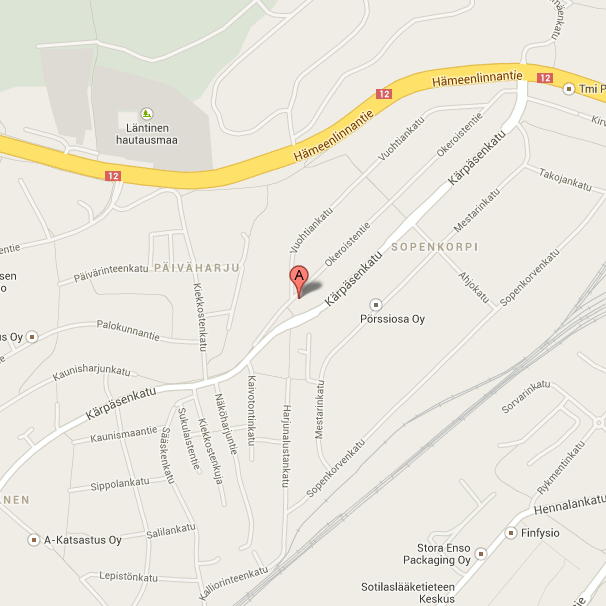
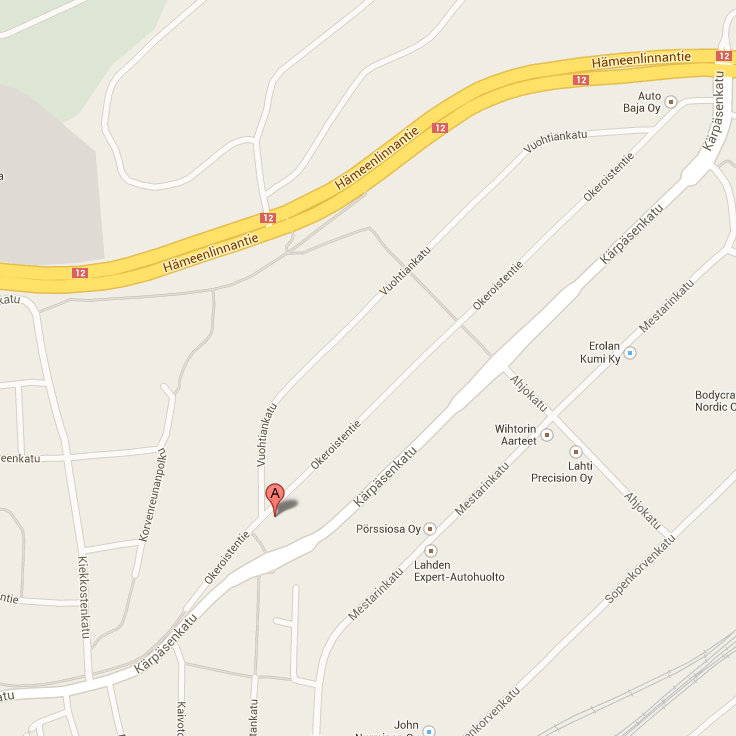
map update

diff --git a/index.html b/index.html
@@ -5,6 +5,7 @@
 	<head>
 		<!--Define utf-8 -->
 		<meta charset="utf-8">
+		<meta content='user-scalable=0' name='viewport' />
 		<!-- Seting up some meta data -->
 		<meta name="author" content="Simo Haakana">
 		<meta name="keywords" content="HSV, Harjunalustan Siniveljet, Lahti, Partio">
@@ -97,9 +98,9 @@
 			<h1>Ryhmät</h1>
 			<table>
 				<tr>
-					<td><img src="img/salppuri.png" class="map"></td>
-					<td><img src="img/riihela.png" class="map"></td>
-					<td><img src="img/harjunalusta.png" class="map"></td>
+					<td><div class="map" id="salppuri"><a href="http://goo.gl/maps/q6SP7">Iso Kartta</a></div></td>
+					<td><div class="map" id="riihela"><a href="http://goo.gl/maps/1cgnM">Iso Kartta</a></div></td>
+					<td><div class="map" id="harjunalusta"><a href="http://goo.gl/maps/gk5zT">Iso Kartta</a></div></td>
 				</tr>
 				<tr>
 					<td>Sudenpentu</td>

diff --git a/css/index.css b/css/index.css
@@ -33,3 +33,35 @@ div.salmela_cover{
 div.sail_cover2{
 	background-image: url('../img/purjehdus2.jpg');
 }
+.map{
+	border-radius: 100%;
+	width: 300px;
+	height: 300px;
+	transition:width 1.2s height 1.2s;
+	-webkit-transition:width 1.2s, height 1.2s, -webkit-transform 1.2s;
+}
+.map:hover{
+	height: 450px;
+	width: 450px;
+	color: blue;
+}
+div.map>a{
+	color: blue;
+	text-decoration: none;
+	opacity: 0.3;
+	transition:opacity 0.8s;
+	-webkit-transition:opacity 0.8s, -webkit-transform 0.8s;
+}
+div.map>a:hover{
+	opacity: 0.8;
+}
+#salppuri{
+	background-image: url('../img/salppuri2.png');
+	
+}
+#harjunalusta{
+	background-image: url('../img/harjunalusta2.png');
+}
+#riihela{
+	background-image: url('../img/riihela2.png')
+}

diff --git a/css/hsv.css b/css/hsv.css
@@ -190,6 +190,7 @@ img.hsv_logo:hover{
 .mfloat{
 	float: left;
 }
+/*
 .map{
 	border-radius: 100%;
 	width: 300px;
@@ -199,6 +200,7 @@ img.hsv_logo:hover{
 .map:hover{
 	width: 450px;
 }
+*/
 table{
 	text-align: center;
 }
